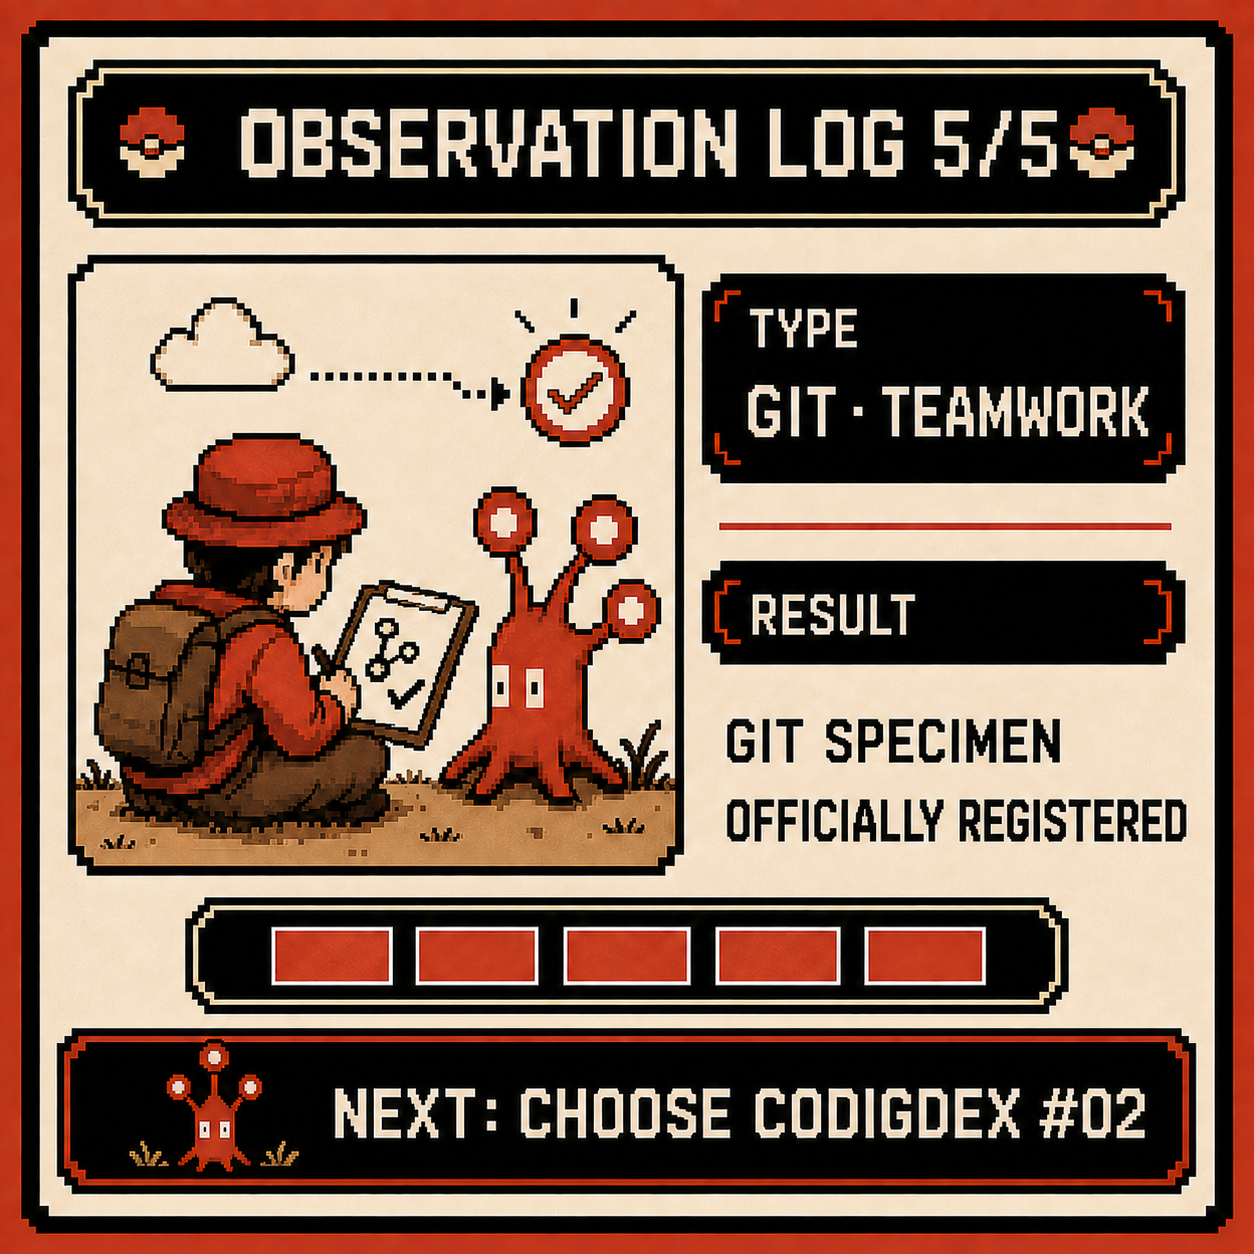
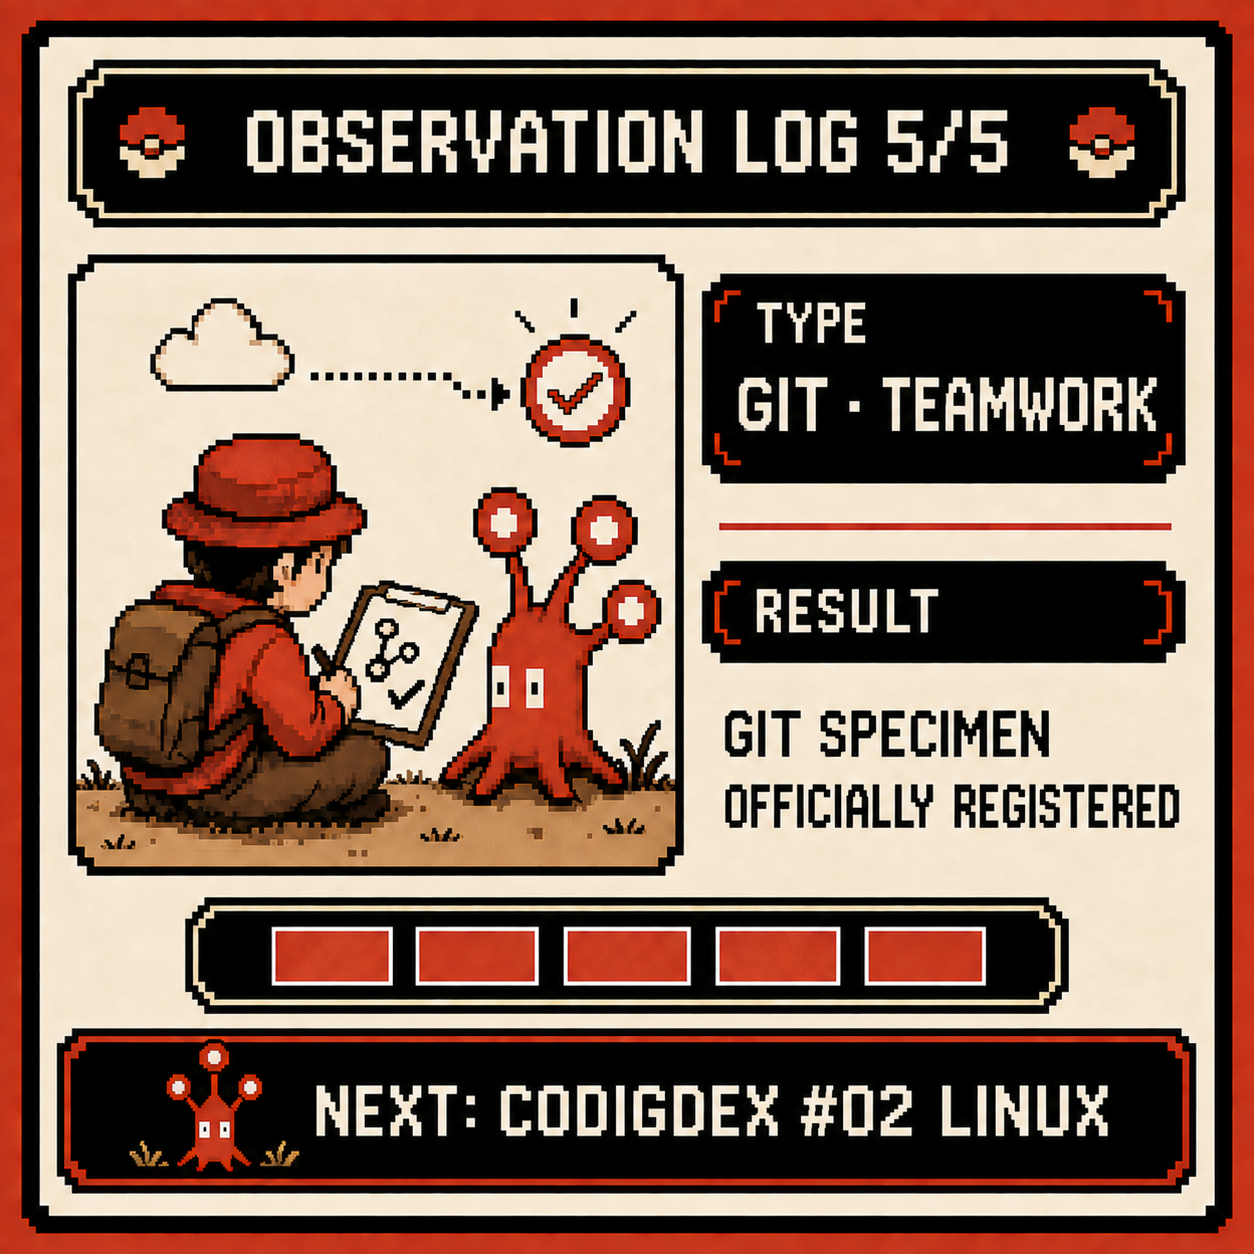
content: redraw week 5 registration and observation images for No.005
- Registration card now shows No.005 Workflow Guardian (ko/en)
- Observation log 5/5 previews Codigdex #02 Linux (ko/en)
- Update alt text in both languages to match

diff --git a/posts/2026/09/#005_collaboration-workflow/index.ko.md b/posts/2026/09/#005_collaboration-workflow/index.ko.md
@@ -101,8 +101,8 @@ Git 명령어를 하나씩 배울 땐 각각 독립된 도구처럼 느껴졌는
 
 그래서 이번엔 특별히, 마지막 단계인 No.005 워크플로 수호자를 등록하면서 No.001부터 이어 온 Git 챕터를 코딩 도감에 모두 채운다.
 
-![코딩 도감 등록 완료 — No.001 Git](./images/05-git-registration-complete.png)
+![코딩 도감 등록 완료 — No.005 워크플로 수호자](./images/05-git-registration-complete.png)
 
 다음 개체는 코딩 도감 #02 Linux다. Git으로 기록을 남기던 그 명령어들이 실제로 어디서 실행되고 있었는지, 이번엔 터미널 너머의 셸부터 관찰해 볼 차례다.
 
-![협업 워크플로우 관찰 기록 5/5 — 다음: 코딩 도감 #02 주제 선정](./images/04-observation-5-of-5.png)
+![협업 워크플로우 관찰 기록 5/5 — 다음: 코딩 도감 #02 Linux](./images/04-observation-5-of-5.png)

diff --git a/posts/2026/09/#005_collaboration-workflow/index.en.md b/posts/2026/09/#005_collaboration-workflow/index.en.md
@@ -101,8 +101,8 @@ Five weeks ago, Git was just a set of commands to memorize. Now it looks like on
 
 So this time, specially, registering the final stage, No.005 Workflow Guardian, fills in the whole Git chapter of the Codigdex, starting from No.001.
 
-![Codigdex registration complete — No.001 Git](./images/05-git-registration-complete.en.png)
+![Codigdex registration complete — No.005 Workflow Guardian](./images/05-git-registration-complete.en.png)
 
 The next specimen is Codigdex #02: Linux. All those Git commands had to run somewhere — so next, it's time to observe what's on the other side of the terminal, starting with the shell.
 
-![Collaboration workflow observation log 5/5 — next: choosing Codigdex #02's topic](./images/04-observation-5-of-5.en.png)
+![Collaboration workflow observation log 5/5 — next: Codigdex #02 Linux](./images/04-observation-5-of-5.en.png)
